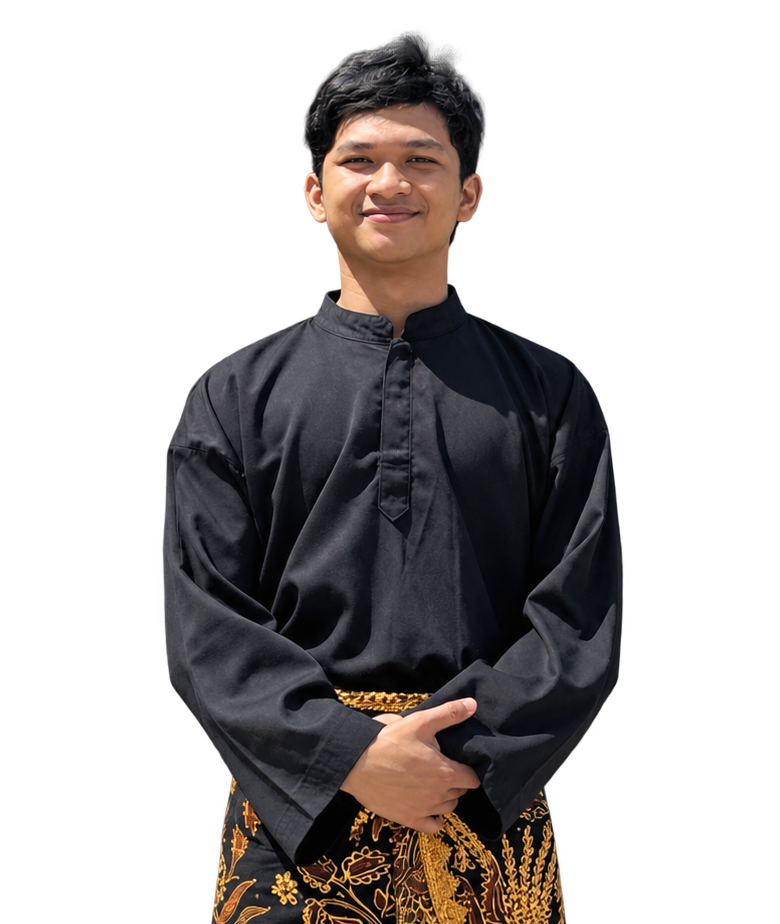
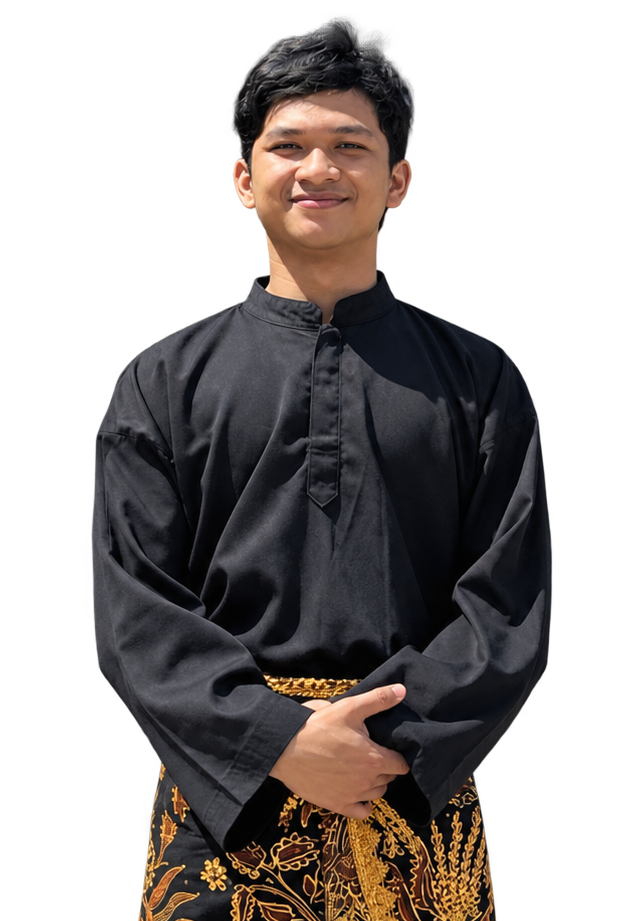
buat hover teks ekstra presisi

Changed region(s): [[0.1195, 0.0, 0.8664, 1.0]]

diff --git a/css/style.css b/css/style.css
@@ -336,6 +336,7 @@ select {
   z-index: 1;
   position: relative;
   cursor: default;
+  pointer-events: none;
 }
 
 .hero-title-solid {
@@ -347,6 +348,7 @@ select {
   color: var(--text-primary);
   text-transform: capitalize;
   display: block;
+  pointer-events: none;
 }
 
 .hero-title-outlined {
@@ -360,6 +362,15 @@ select {
   text-transform: capitalize;
   display: block;
   margin-top: -0.04em;
+  pointer-events: none;
+}
+
+/* Span teks presisi: hanya area huruf yang menerima interaksi hover */
+.hero-title-text {
+  display: inline-block;
+  pointer-events: auto;
+  line-height: 0.88;
+  vertical-align: middle;
 }
 
 /* Portrait Image in Center Foreground */
@@ -401,15 +412,17 @@ select {
   filter: grayscale(0%) contrast(100%) blur(0px);
 }
 
-/* 2. Hover pada teks tipografi ("Programmer & Video Editor") di belakang foto:
-      turunkan opasitas dan berikan efek blur agar teks di baliknya terlihat jelas */
+/* 2. Hover presisi pada teks tipografi ("Programmer & Video Editor") di belakang foto:
+      turunkan opasitas dan berikan efek blur HANYA saat kursor benar-benar mengenai teks */
+.hero-typography-layer:has(.hero-title-text:hover) ~ .hero-portrait-wrapper,
 .hero-typography-layer:hover ~ .hero-portrait-wrapper {
   pointer-events: none;
 }
 
-.hero-typography-layer:hover ~ .hero-portrait-wrapper .hero-portrait-img,
-.hero-center-stage:has(.hero-typography-layer:hover) .hero-portrait-img {
-  opacity: 0.93;
+.hero-typography-layer:has(.hero-title-text:hover) ~ .hero-portrait-wrapper .hero-portrait-img,
+.hero-center-stage:has(.hero-title-text:hover) .hero-portrait-img,
+.hero-typography-layer:hover ~ .hero-portrait-wrapper .hero-portrait-img {
+  opacity: 0.90;
   filter: grayscale(100%) contrast(105%) blur(4px);
 }
 

diff --git a/index.html b/index.html
@@ -75,8 +75,8 @@
     <!-- Massive Typographic Poster Layer + Central Overlapping Portrait -->
     <div class="hero-center-stage">
       <div class="hero-typography-layer">
-        <h1 class="hero-title-solid">Programmer</h1>
-        <h2 class="hero-title-outlined">&amp; Video Editor</h2>
+        <h1 class="hero-title-solid"><span class="hero-title-text">Programmer</span></h1>
+        <h2 class="hero-title-outlined"><span class="hero-title-text">&amp; Video Editor</span></h2>
       </div>
 
       <!-- Center Portrait Photo (Layered above text with pure transparent cutout) -->
